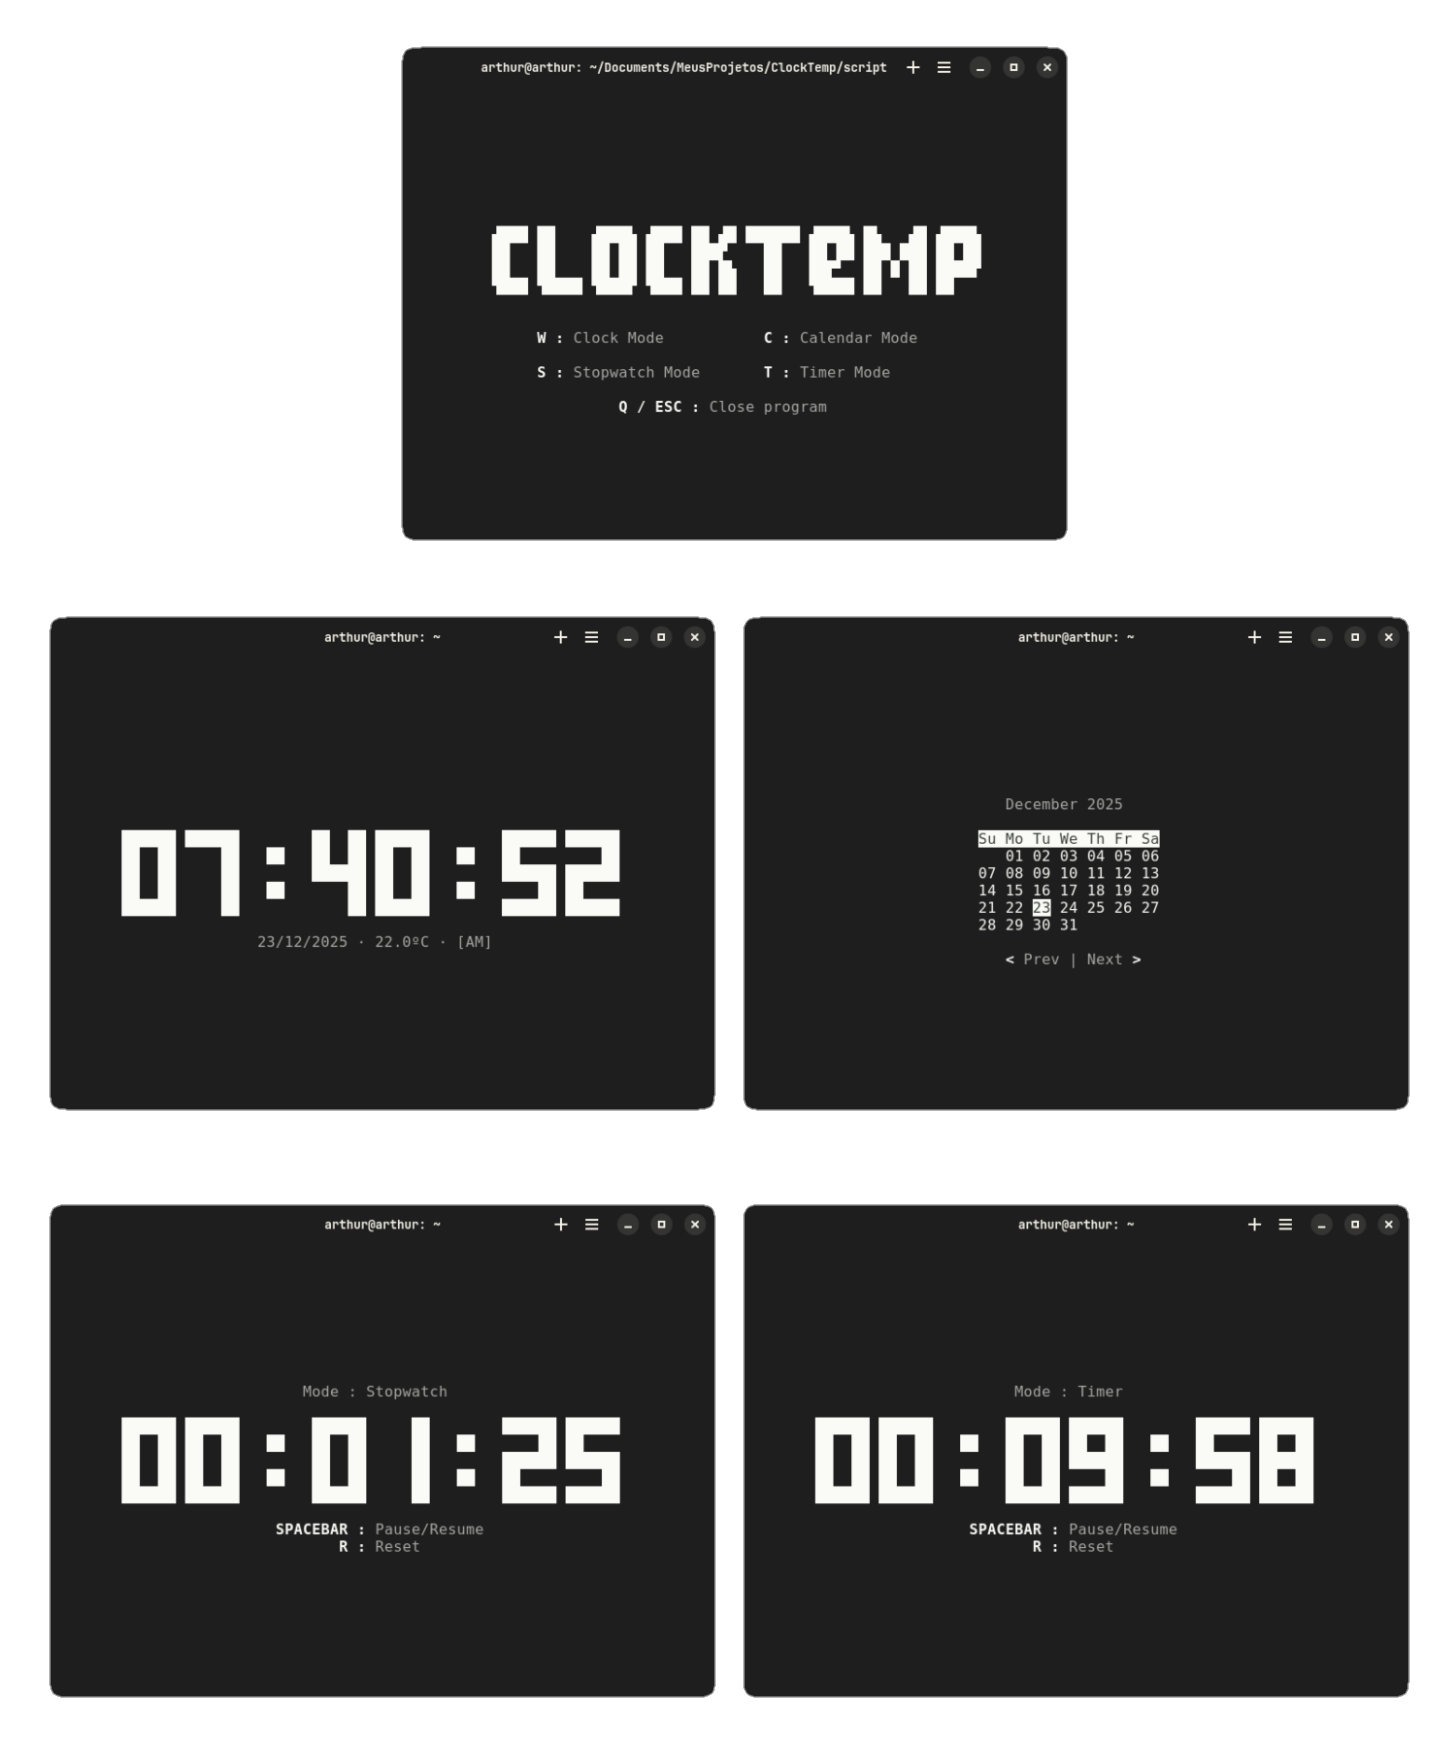
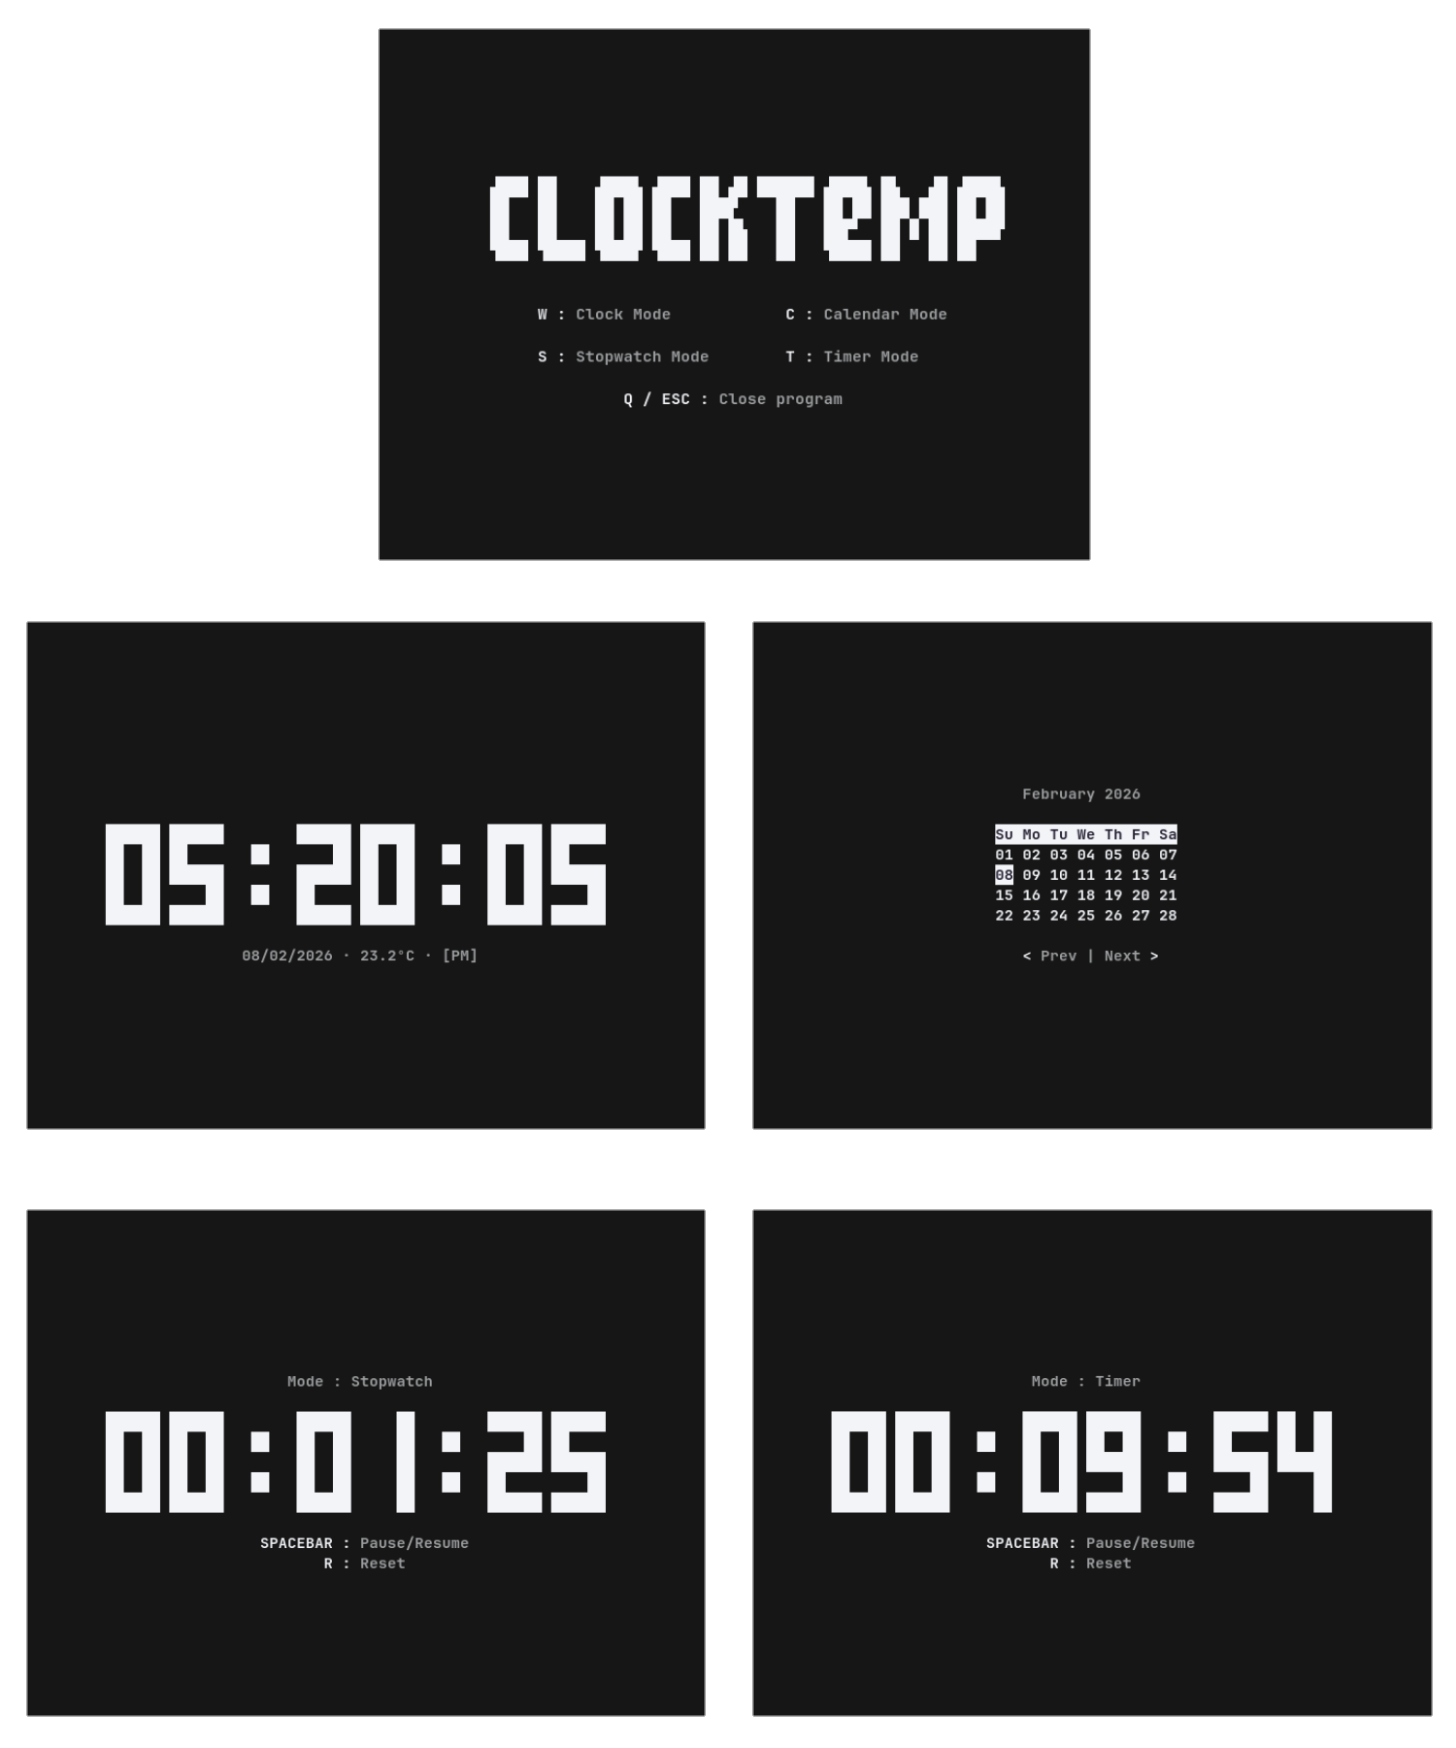
Bug fixed and README update
- Fixed a bug that did not properly center hint messages in help menu in certain levels of zoom
- Updated README.md

diff --git a/script/modes.py b/script/modes.py
@@ -36,18 +36,20 @@ def help_menu(stdscr, height, width, args):
     ██   ██    ██ ██ ██   ███▛    ██   ██ ██ ███ ███ ██ ██ 
     ██   ██    ██ ██ ██   ██ █▙   ██   ██▛▘  ██ █ ██ ████▛ 
     ▜███ ▜████ ▜███▛ ▜███ ██ ██   ██   ▜████ ██   ██ ██    
-                                             Version 1.2.1 
+                                             Version 1.2.2 
     """
 
-    logo_start_x = width - 2
-    logo_start_y = (height -12) // 2
+    logo_start_x = width
+    logo_start_y = (height - 12) // 2
+    hint_left_start_x = width - 25
+    hint_right_start_x = width + 25
 
     center_highlighted_text(stdscr, height, logo_start_x, logo.splitlines(), "", logo_start_y, args)
-    center_highlighted_text(stdscr, height, width - 29, "W : ", "Clock Mode", logo_start_y + 7, args)
-    center_highlighted_text(stdscr, height, width + 25, "C : ", "Calendar Mode", logo_start_y + 7, args)
-    center_highlighted_text(stdscr, height, width - 25, "S : ", "Stopwatch Mode", logo_start_y + 9, args)
-    center_highlighted_text(stdscr, height, width + 21, "T : ", "Timer Mode", logo_start_y + 9, args)
-    center_highlighted_text(stdscr, height, width - 2, "Q / ESC : ", "Close program", logo_start_y + 11, args)
+    center_highlighted_text(stdscr, height, hint_left_start_x - 1, "W : ", "Clock Mode", logo_start_y + 7, args)
+    center_highlighted_text(stdscr, height, hint_right_start_x + 3, "C : ", "Calendar Mode", logo_start_y + 7, args)
+    center_highlighted_text(stdscr, height, hint_left_start_x + 3, "S : ", "Stopwatch Mode", logo_start_y + 9, args)
+    center_highlighted_text(stdscr, height, hint_right_start_x, "T : ", "Timer Mode", logo_start_y + 9, args)
+    center_highlighted_text(stdscr, height, width, "Q / ESC : ", "Close program", logo_start_y + 11, args)
 
 def draw_clock(stdscr, height, width, state, args):
 

diff --git a/script/clocktemp.py b/script/clocktemp.py
@@ -64,14 +64,14 @@ def validate_args(args, parser):
     return args
 
 def show_version():
-    version_text = "ClockTemp version 1.2.1"
+    version_text = "ClockTemp version 1.2.2"
     print(version_text)
     sys.exit(0)
 
 def show_help():
     help_text = """
         ClockTemp - A simple and customizable TUI clock based on tty-clock
-        Version: 1.2.1
+        Version: 1.2.2
 
         Usage: clocktemp [OPTIONS]
 

diff --git a/README.md b/README.md
@@ -34,11 +34,15 @@ Prerequisites: [Python](https://www.python.org/) version 3.x and [requests](http
  ```
 
 > [!TIP]
-Since ClockTemp has many customization options, you can create an alias in Bashrc to set the desired options once.
+Since ClockTemp has many customization options, you can create an alias in Bashrc / Zshrc to set the desired options once.
 
-1. On your terminal open Bashrc
+1. On your terminal open bashrc / zshrc
  ```
- nano ~/.bashrc
+ nano ~/.bashrc # If Bash is your shell
+ ```
+
+ ```
+ nano ~/.zshrc # If ZSH is your shell
  ```
 2. At the end of the file add your custom configuration
  ```
@@ -48,7 +52,11 @@ Since ClockTemp has many customization options, you can create an alias in Bashr
 
 4. Apply changes on your terminal
  ```
- source ~/.bashrc
+ source ~/.bashrc # If Bash is your shell
+ ```
+
+ ```
+ source ~/.zshrc # If ZSH is your shell
  ```
 5. Now whenever you run the <code>clocktemp</code> command without arguments the alias will cause the previously saved settings to be loaded.
  ```
@@ -143,7 +151,7 @@ This project was made using <code>Python</code> version 3.10.12, the <code>Reque
 
 ## License
 
-The <code>ClockTemp</code> project as a whole is licensed under the GNU General Public License v3 (GPLv3). See the LICENSE file for details.
+The <code>ClockTemp</code> project as a whole is licensed under the GNU General Public License v3 (GPLv3). See the <a href="https://github.com/arthur-dnts/ClockTemp/blob/main/LICENSE">LICENSE</a> file for details.
 
 ## Contributors
 
